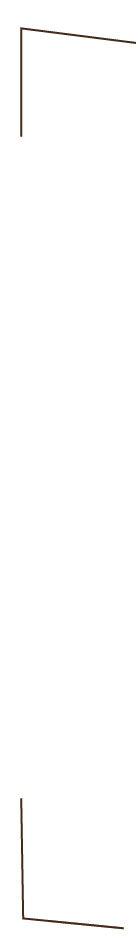
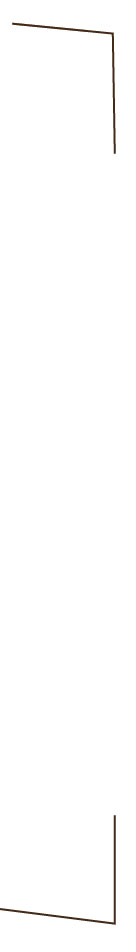
index hasta patroncinadores

diff --git a/index.html b/index.html
@@ -8,6 +8,7 @@
   <title>ColorGlam</title>
 
   <link rel="stylesheet" href="css/bootstrap.css">
+  <link rel="stylesheet" href="css/bootstrapindex.css">
 </head>
 
 <body>
@@ -80,19 +81,26 @@
   <!-- seccion de como funciona -->
   <div class="container-fluid" id="how-works">
     <div class="row" >
-      <h1>COMO FUNCIONA</h1>
-      <div class="row" >
+      <h1 class="title">COMO FUNCIONA</h1>
+      <div class="container" >
         <div class="row">
-          <hr>
+          <div class="col-xs-12 col-sm-12 col-md-4 col-lg-4">
+            <img class="img-responsive" src="images/logo-02.png">
+          </div>
+          <div class="col-xs-12 col-sm-12 col-md-4 col-lg-4">
+            <img class="img-responsive" src="images/logo-02.png">
+          </div>
+          <div class="col-xs-12 col-sm-12 col-md-4 col-lg-4">
+            <img class="img-responsive" src="images/logo-02.png">
+          </div>
         </div>
-        <img class="img" src="images/logo-02.png">
-        <img class="img" src="images/logo-02.png">
-        <img class="img" src="images/logo-02.png">
       </div>
-      <div class="row" >
-        <img class="img" src="images/logo-02.png">
-        <img class="img" src="images/logo-02.png">
-        <img class="img" src="images/logo-02.png">
+      <div class="container" >
+        <div class="row">
+          <img class="img-responsive" src="images/logo-02.png">
+          <img class="img-responsive" src="images/logo-02.png">
+          <img class="img-responsive" src="images/logo-02.png">
+        </div>
       </div>
     </div>
 
@@ -102,22 +110,26 @@
 
   <div class="container-fluid">
     <div class="row">
-      <div class="col-md-1">
-        <img class="img-responsive" src="images/marco-der.png">
+      <div class="col-xs-1 col-sm-1 col-md-1 col-lg-1">
+        <img class="img-responsive" src="images/marco-izq.png">
       </div>
-      <div class="col-md-5">
+      <div class="col-xs-5 col-sm-5 col-md-5 col-lg-5">
         <img class="img-responsive" src="images/cont.png">
       </div>
-      <div class="col-md-5">
-        <h1>
-          QUIERES SER UNA <br>ARTISTA DE BELLEZA <br>
-          O UN INVERSIONISTA<br>
-        </h1>
-        <H3>Animate a ser parte de este <br> bonito proyecto<br></H3>
+      <div class="col-xs-5 col-sm-5 col-md-5 col-lg-5">
+        <p>
+          <h4 class="ser-artis">
+            QUIERES SER UNA <br>ARTISTA DE BELLEZA <br>
+            O UN INVERSIONISTA<br>
+          </h4>
+        </p>
+        <p>
+          <H6 class="ser-artis" >Animate a ser parte de este <br> bonito proyecto<br></H6>
+        </p>
         <button class="btn btn-primary">RESPUESTAS</button>
       </div>
-      <div class="col-md-1">
-        <img class="img-responsive" src="images/marco-izq.png">
+      <div class="col-xs-1 col-sm-1 col-md-1 col-lg-1">
+        <img class="img-responsive" src="images/marco-der.png">
       </div>
     </div>
     <!--<a class="img-responsive" href="#">

diff --git a/css/bootstrapindex.css b/css/bootstrapindex.css
@@ -1,0 +1,45 @@
+
+@media (max-width: 320px) {
+  .title {
+    font-size: 20px;
+  }
+}
+@media (min-width: 321px) and (max-width: 767px) {
+  .title {
+    font-size: 40px;
+  }
+}
+@media (min-width: 768px) and (max-width: 1199px) {
+  .title {
+    font-size: 80px;
+  }
+}
+
+@media (min-width: 1200px) {
+  .title {
+    font-size: 150px;
+  }
+}
+
+
+@media (max-width: 320px) {
+  .ser-artis {
+    font-size: 10px;
+  }
+}
+@media (min-width: 321px) and (max-width: 767px) {
+  .ser-artis {
+    font-size: 15px;
+  }
+}
+@media (min-width: 768px) and (max-width: 1199px) {
+  .ser-artis {
+    font-size: 40px;
+  }
+}
+
+@media (min-width: 1200px) {
+  .ser-artis {
+    font-size: 75px;
+  }
+}

diff --git a/test.html b/test.html
@@ -11,6 +11,12 @@
 </head>
 
 <body>
+  <div class="container-fluid">
+  <p>
+    <a href="">INGRESAR</a>     <p>/</p>     <a href="">REGISRATE</a>
+    <span class="glyphicon glyphicon-shopping-cart" aria-hidden="true"></span>
+  </p>
+  </div>
   <nav class="navbar navbar-default" role="navigation">
       <!-- Brand and toggle get grouped for better mobile display -->
       <div class="navbar-header">
@@ -31,6 +37,7 @@
         <ul class="nav navbar-nav navbar-left">
           <li><a href="#">Menu</a></li>
           <li><a href="#">Menu</a></li>
+
         </ul>
         <ul class="nav navbar-nav navbar-right">
           <li><a href="#">Link</a></li>

diff --git a/css/bootstrap.css b/css/bootstrap.css
@@ -47,8 +47,8 @@ video {
   height: auto;
   text-align: center;
   color: white;
-
 }
+
 audio:not([controls]) {
   display: none;
   height: 0;
